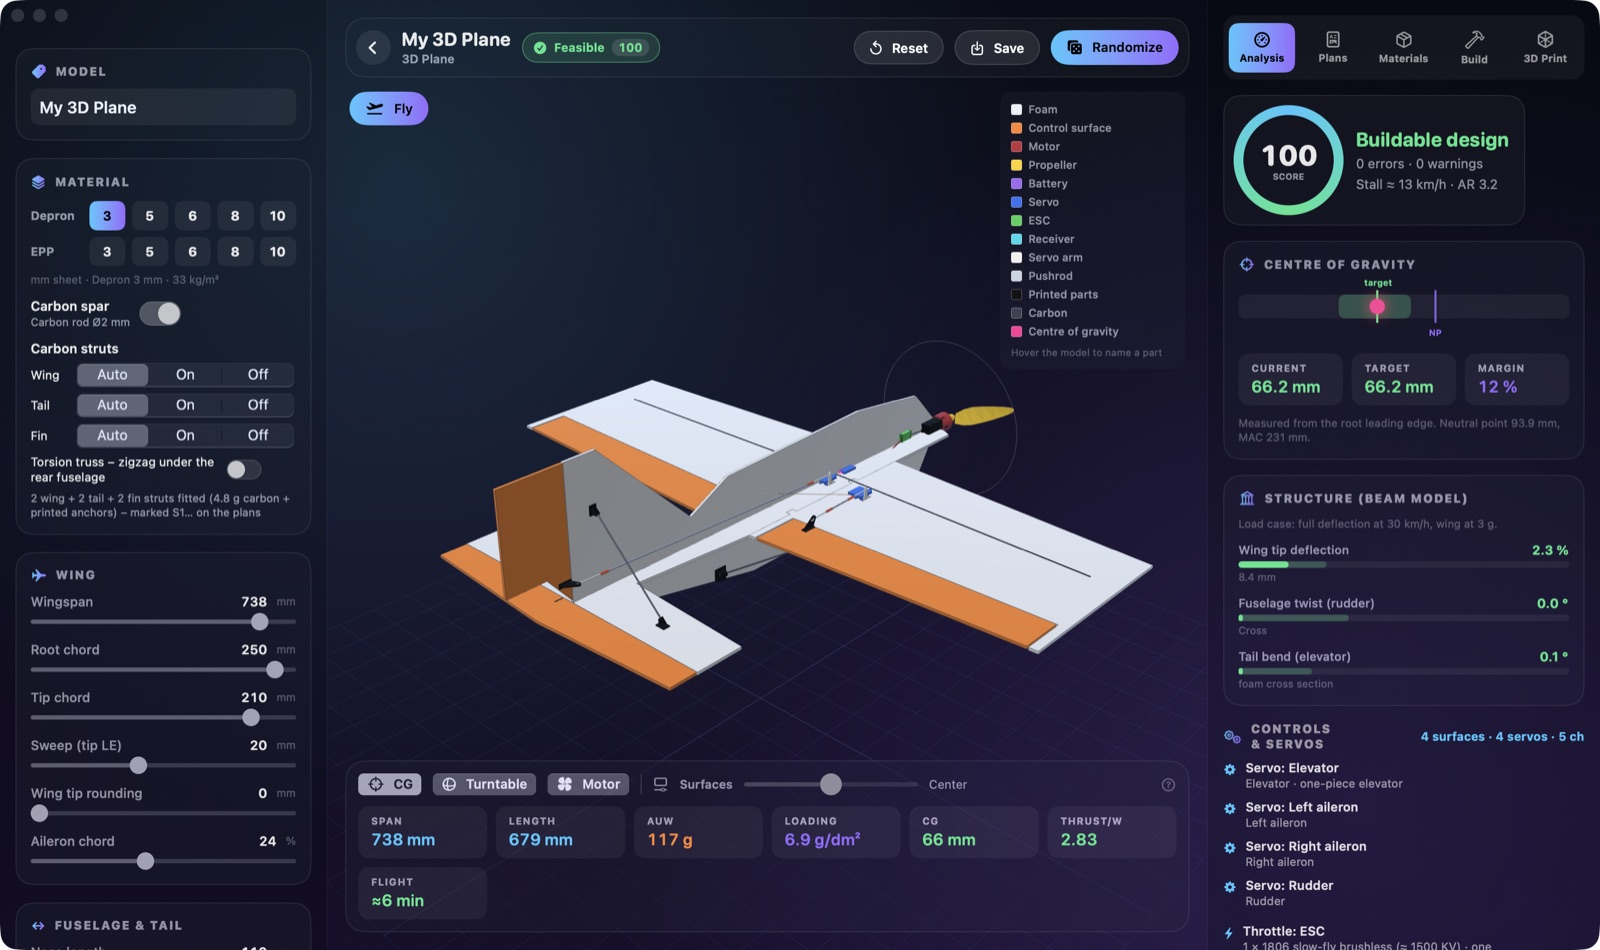
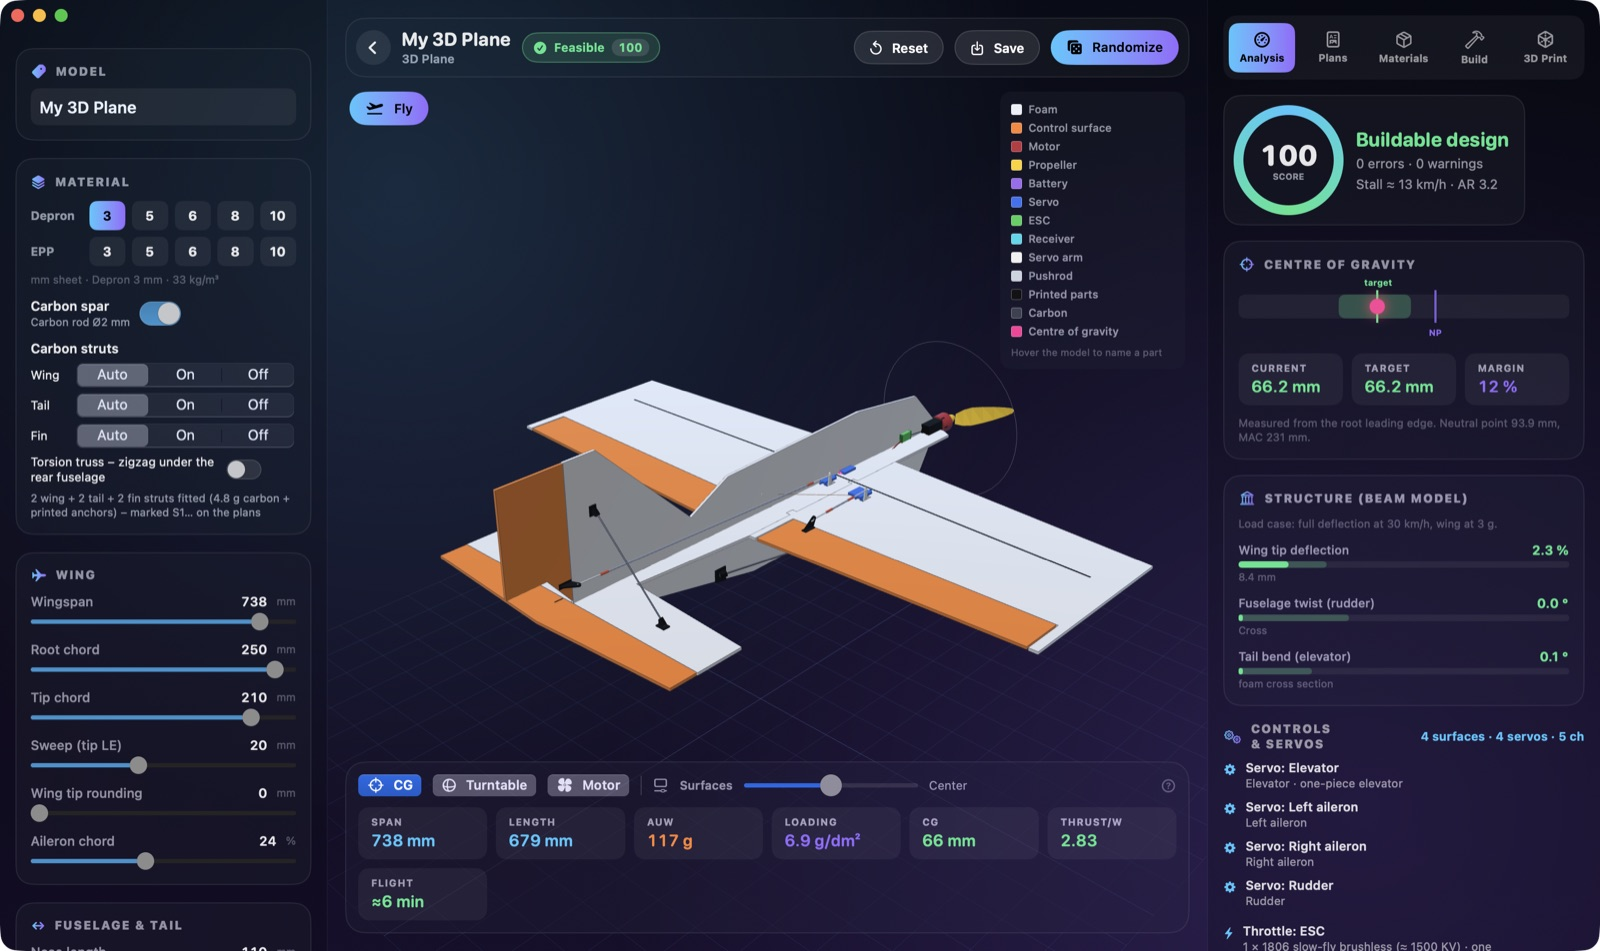
README: setup-sheet screenshot added, all screenshots refreshed (simulator in a full-throttle climb); --screenshots also captures the 3D Plane's setup sheet

diff --git a/Sources/FoamMaster/App/Screenshots.swift b/Sources/FoamMaster/App/Screenshots.swift
@@ -1,7 +1,7 @@
 import AppKit
 import SwiftUI
 
-/// `FoamMaster --screenshots <dir>`: drives the app through gallery, editor (3D Plane) and the flight
+/// `FoamMaster --screenshots <dir>`: drives the app through gallery, setup sheet, editor (3D Plane) and the flight
 /// simulator and saves each window as a PNG – the README's screenshots. An app may capture its own windows, so no
 /// screen-recording permission is needed. Quits when done.
 @MainActor
@@ -18,37 +18,44 @@ enum Screenshots {
             print("screenshot \(name): \(img.width) × \(img.height)")
         }
         var mainWindow: NSWindow? { NSApp.windows.first { $0.isVisible && $0.title != "Flight Simulator" && $0.frame.width > 800 } }
-        func after(_ s: Double, _ f: @escaping () -> Void) { DispatchQueue.main.asyncAfter(deadline: .now() + s, execute: f) }
+        var sim: SimController? { SimSession.current?.controller }
+        func key(_ a: SimAction, down: Bool) {
+            guard let input = sim?.input else { return }
+            if down { input.keyDown(input.controls.key(a), repeat: false) } else { input.keyUp(input.controls.key(a)) }
+        }
 
-        mainWindow?.setFrame(NSRect(x: 40, y: 40, width: 1480, height: 920), display: true)
-        withAnimation { project.showAbout = false }
-        after(8) {
-            capture(mainWindow, "gallery")
-            project.start(.aerobat, choice: AircraftKind.aerobat.defaultSetupChoice)
-            project.inspectorTab = .analysis
-            after(6) {
-                capture(mainWindow, "editor")
-                after(1) {
-                    SimSession.open(project)
-                    after(4) {
-                        guard let s = SimSession.current else { NSApp.terminate(nil); return }
-                        let ctl = s.controller
-                        ctl.camera = .chase; ctl.renderer?.camera = .chase           // (not saved to the pilot's settings)
-                        ctl.input.keyDown(ctl.input.controls.key(.throttleUp), repeat: false)
-                        after(1.2) {
-                            ctl.input.keyUp(ctl.input.controls.key(.throttleUp))
-                            ctl.input.keyDown(ctl.input.controls.key(.launch), repeat: false)
-                            after(0.3) {
-                                ctl.input.keyUp(ctl.input.controls.key(.launch))
-                                after(2.2) {
-                                    capture(s.window, "simulator")
-                                    NSApp.terminate(nil)
-                                }
-                            }
-                        }
-                    }
-                }
-            }
+        // Each step runs after the given pause (seconds) after the one before.
+        let steps: [(Double, () -> Void)] = [
+            (0, {
+                mainWindow?.setFrame(NSRect(x: 40, y: 40, width: 1480, height: 920), display: true)
+                withAnimation { project.showAbout = false }
+            }),
+            (8, { capture(mainWindow, "gallery") }),
+            (0, { project.setupSheetRequest = .some(.aerobat) }),
+            // (the setup sheet is a window of its own, attached to the main one; it sizes its option set first)
+            (5, { capture(mainWindow?.attachedSheet, "setup") }),
+            (0, { project.setupSheetRequest = .some(nil) }),
+            (1.5, {
+                project.start(.aerobat, choice: AircraftKind.aerobat.defaultSetupChoice)
+                project.inspectorTab = .analysis
+            }),
+            (6, { capture(mainWindow, "editor") }),
+            (1, { SimSession.open(project) }),
+            (4, {
+                sim?.camera = .chase; sim?.renderer?.camera = .chase      // (not saved to the pilot's settings)
+                key(.throttleUp, down: true)
+            }),
+            (1.8, { key(.throttleUp, down: false); key(.launch, down: true) }),
+            (0.3, { key(.launch, down: false) }),
+            (3.0, {
+                capture(SimSession.current?.window, "simulator")
+                NSApp.terminate(nil)
+            })
+        ]
+        var t = 0.0
+        for (pause, step) in steps {
+            t += pause
+            DispatchQueue.main.asyncAfter(deadline: .now() + t, execute: step)
         }
     }
 }

diff --git a/Sources/FoamMaster/App/Project.swift b/Sources/FoamMaster/App/Project.swift
@@ -45,6 +45,8 @@ final class Project: ObservableObject {
     @Published var statusMessage: String?
     /// Credits splash – shown at start-up, closed with a click.
     @Published var showAbout = true
+    /// Opens (a type) or closes (nil) the gallery's setup sheet from outside the gallery – the screenshot mode.
+    @Published var setupSheetRequest: AircraftKind??
     /// Result of the last balance fix, shown in the CG panel until the design changes.
     @Published var balanceNote: String?
 

diff --git a/Sources/FoamMaster/Views/GalleryView.swift b/Sources/FoamMaster/Views/GalleryView.swift
@@ -144,6 +144,7 @@ struct GalleryContent: View {
                 project.start(kind, choice: ch)
             } cancel: { selected = nil }
         }
+        .onReceive(project.$setupSheetRequest) { r in if let r { selected = r } }
     }
 }
 

diff --git a/docs/FEATURES.md b/docs/FEATURES.md
@@ -53,4 +53,4 @@ The full, detailed description of everything FoamMaster does – construction ru
 
 Builds every model type, prints the analysis, writes PDFs, STLs and offscreen Metal/UI renders.
 
-`--screenshots <dir>` – drives the app through the gallery, the editor with the 3D Plane and the flight simulator (chase view, in flight) and saves each window as a PNG – the README screenshots (resized to JPEG in `docs/images`). The app captures its own windows, so it needs no screen-recording permission.
+`--screenshots <dir>` – drives the app through the gallery, the 3D Plane's setup sheet, the editor with the 3D Plane and the flight simulator (chase view, in flight) and saves each window as a PNG – the README screenshots (resized to JPEG in `docs/images`). The app captures its own windows, so it needs no screen-recording permission.

diff --git a/README.md b/README.md
@@ -20,6 +20,10 @@ The app is not notarized: on first launch right-click it and choose **Open** (or
 - **Plans and parts.** 1:1 A4 PDF plans with every dimension, a bill of materials and build instructions; STL files for motor mounts, horns, strut anchors and the spar joiner.
 - **Fly it before you cut it.** A flight simulator flies exactly the design on screen – with its weight, inertia, CG, trim, prop slipstream, torque and stall.
 
+<img src="docs/images/setup.jpg" alt="Setup sheet for the 3D Plane" width="560">
+
+*Pick a type and its options – controls, wing tips, aileron servos, single or dual motor. The sheet sizes the build to pass every check before you start.*
+
 ![Editor with the 3D Plane](docs/images/editor.jpg)
 
 *The editor: parameters on the left, the live 3D model with every component, analysis and checks on the right.*
